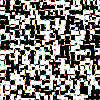
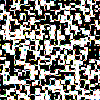
Updated canada.pymy1.png .

diff --git a/canada.py b/canada.py
@@ -40,7 +40,7 @@ for a in range(10):
                         if(np.array_equal(getColor(outp,2,o,k),getColor(outp,3,i-1,j)) and np.array_equal(getColor(outp,1,o,k),getColor(outp,4,i-1,j))):
                             moverPieza(outp,o,k,i,j)
                     else:
-                        if((np.array_equal(getColor(outp,2,o,k),getColor(outp,3,i-1,j)) and np.array_equal(getColor(outp,1,o,k),getColor(outp,4,i-1,j))) or (np.array_equal(getColor(outp,1,o,k),getColor(outp,2,i,j-1)) and np.array_equal(getColor(outp,4,o,k),getColor(outp,3,i,j-1)))):
+                        if((np.array_equal(getColor(outp,2,o,k),getColor(outp,3,i-1,j)) and np.array_equal(getColor(outp,1,o,k),getColor(outp,4,i-1,j))) and (np.array_equal(getColor(outp,1,o,k),getColor(outp,2,i,j-1)) and np.array_equal(getColor(outp,4,o,k),getColor(outp,3,i,j-1)))):
                             moverPieza(outp,o,k,i,j)
 
 
